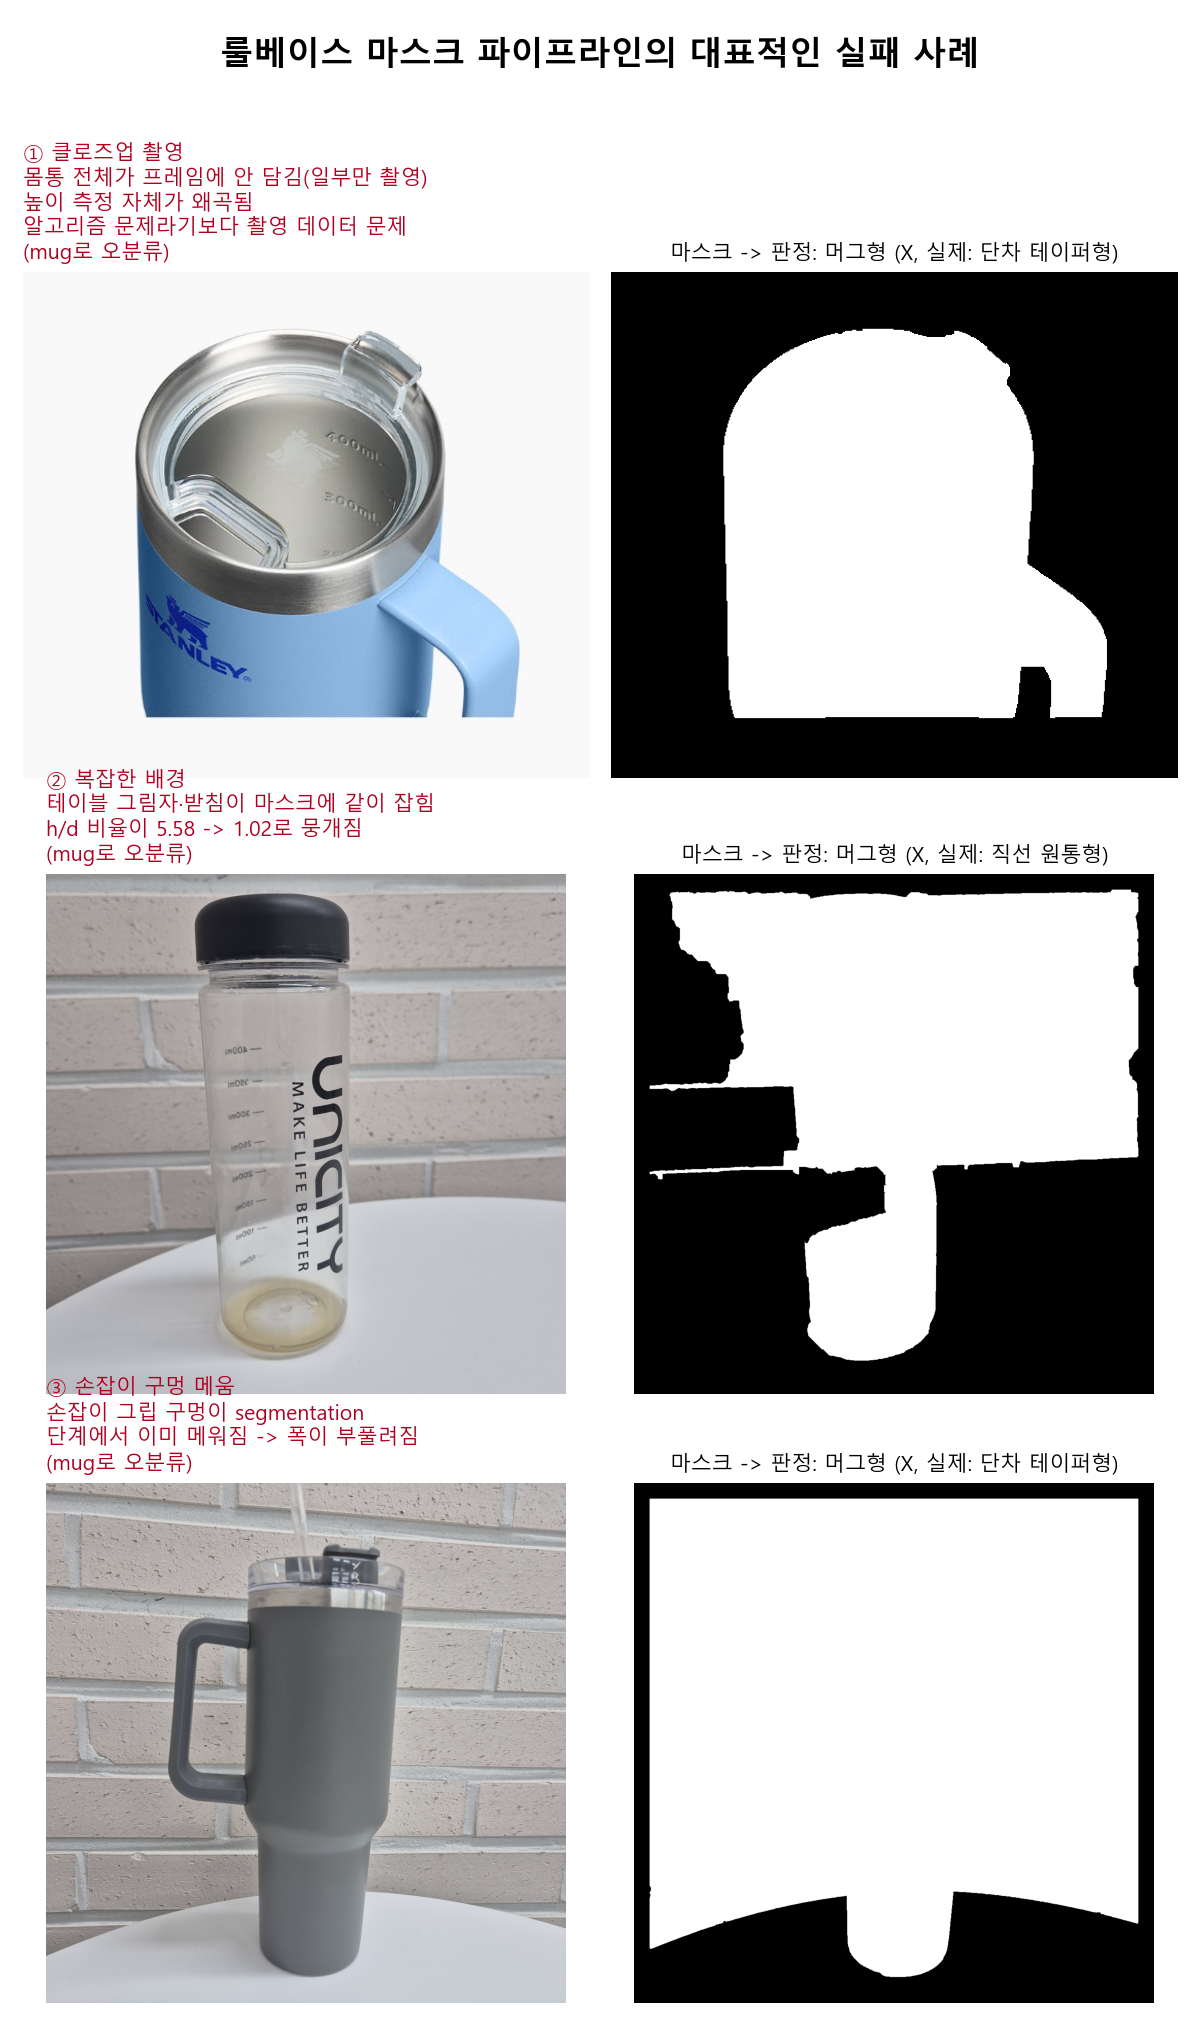
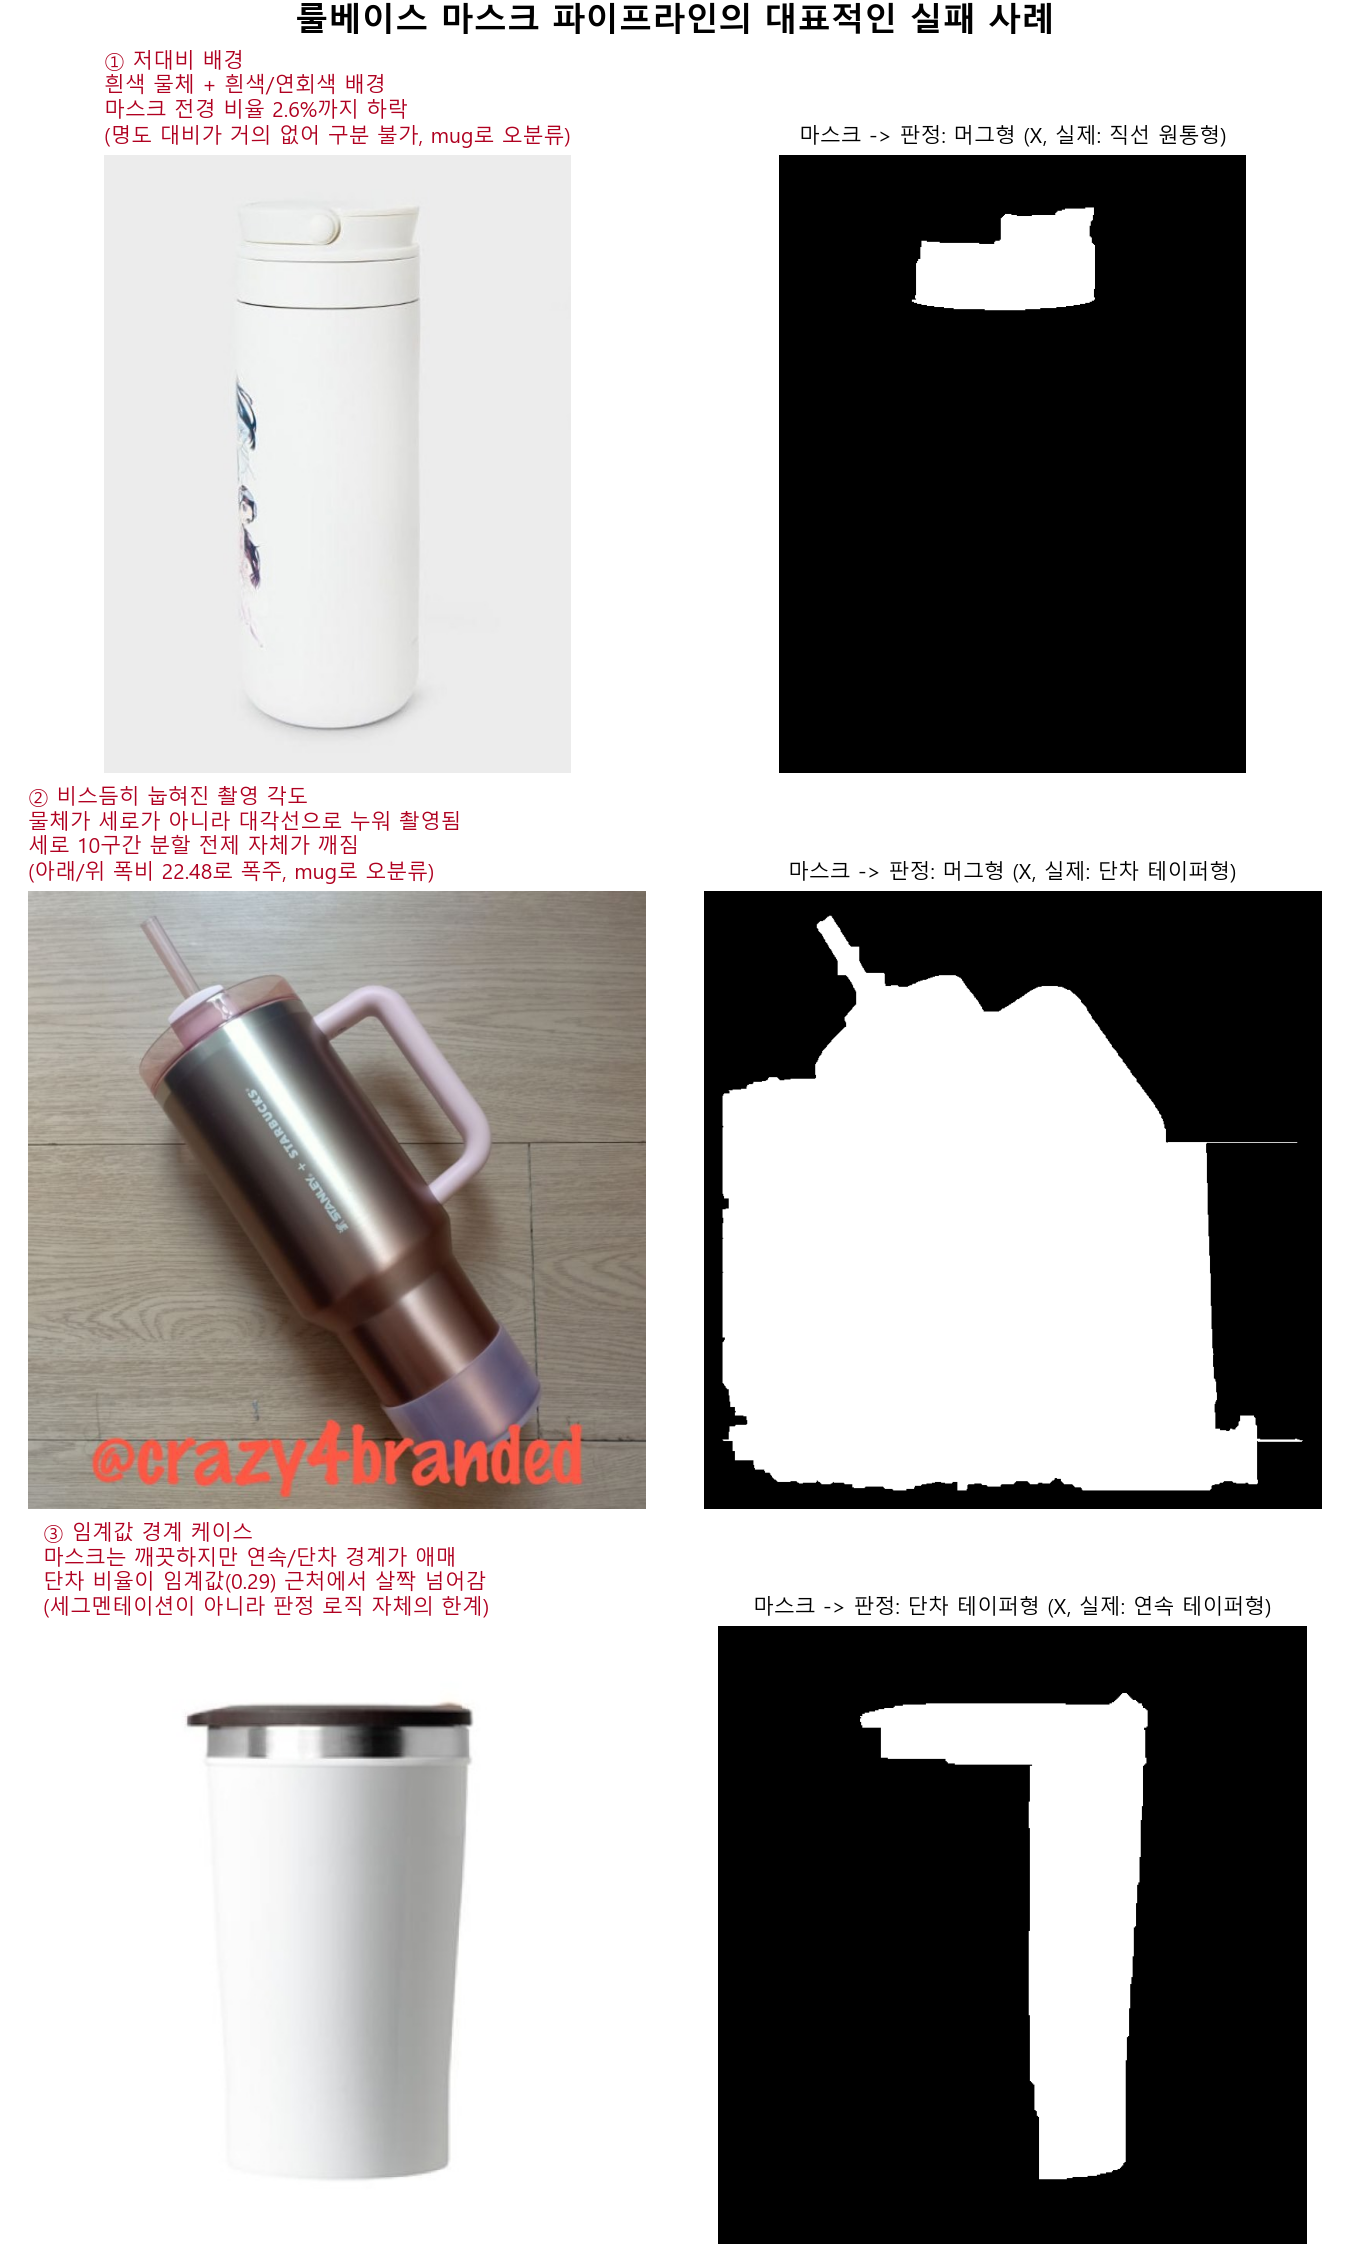
fix: 실패 사례 그림을 data/preprocess 예시로 교체 + 레이아웃 겹침 수정
기존 data/raw2, data/test1 혼용 예시를 전부 data/preprocess 소스로 교체:
1) 저대비 배경 — straight/148.jpg, 마스크 전경 비율 2.6%까지 하락
2) 비스듬히 눕혀진 촬영 각도 — taper_step/116.jpg, 물체가 대각선으로 누워
   촬영되어 세로 10구간 분할 전제 자체가 깨짐(아래/위 폭비 22.48로 폭주) —
   지난 세션에서 논의했던 "회전된 사진" 문제의 실제 사례
3) 임계값 경계 케이스 — taper_smooth/161.jpg, 마스크는 깨끗하지만 판정
   로직(단차 비율 임계값) 자체의 한계로 오분류

label_quality_report.md를 파싱해 "강한 신호가 아니면서 룰베이스가 폴더
라벨과 다르게 판정한"(=preprocess에 남아있는 진짜 오분류) 후보 180장 중에서
선별. subplots_adjust 대신 constrained_layout 사용해 제목 텍스트가 다른
행과 겹치던 레이아웃 버그도 수정.

Claude-Session: https://claude.ai/code/session_017RchT2YestydpNo3gmGA3i

diff --git a/src/rule_based/make_failure_cases_figure.py b/src/rule_based/make_failure_cases_figure.py
@@ -29,22 +29,22 @@ from shape_classifier import classify_shape, get_mask, SHAPE_LABELS_KO  # noqa: 
 
 CASES = [
     {
-        "path": "data/raw2/taper_step/70.jpg",
-        "true_cls": "taper_step",
-        "title": "① 클로즈업 촬영",
-        "desc": "몸통 전체가 프레임에 안 담김(일부만 촬영)\n높이 측정 자체가 왜곡됨\n알고리즘 문제라기보다 촬영 데이터 문제\n(mug로 오분류)",
-    },
-    {
-        "path": "data/test1/straight/KakaoTalk_20260915_154417925_13.jpg",
+        "path": "data/preprocess/straight/148.jpg",
         "true_cls": "straight",
-        "title": "② 복잡한 배경",
-        "desc": "테이블 그림자·받침이 마스크에 같이 잡힘\nh/d 비율이 5.58 -> 1.02로 뭉개짐\n(mug로 오분류)",
+        "title": "① 저대비 배경",
+        "desc": "흰색 물체 + 흰색/연회색 배경\n마스크 전경 비율 2.6%까지 하락\n(명도 대비가 거의 없어 구분 불가, mug로 오분류)",
     },
     {
-        "path": "data/test1/taper_step/KakaoTalk_20260915_154417925_09.jpg",
+        "path": "data/preprocess/taper_step/116.jpg",
         "true_cls": "taper_step",
-        "title": "③ 손잡이 구멍 메움",
-        "desc": "손잡이 그립 구멍이 segmentation\n단계에서 이미 메워짐 -> 폭이 부풀려짐\n(mug로 오분류)",
+        "title": "② 비스듬히 눕혀진 촬영 각도",
+        "desc": "물체가 세로가 아니라 대각선으로 누워 촬영됨\n세로 10구간 분할 전제 자체가 깨짐\n(아래/위 폭비 22.48로 폭주, mug로 오분류)",
+    },
+    {
+        "path": "data/preprocess/taper_smooth/161.jpg",
+        "true_cls": "taper_smooth",
+        "title": "③ 임계값 경계 케이스",
+        "desc": "마스크는 깨끗하지만 연속/단차 경계가 애매\n단차 비율이 임계값(0.29) 근처에서 살짝 넘어감\n(세그멘테이션이 아니라 판정 로직 자체의 한계)",
     },
 ]
 
@@ -59,7 +59,7 @@ def main() -> None:
     parser.add_argument("--out", default="reports/figures/rule_based/failure_cases.png")
     args = parser.parse_args()
 
-    fig, axes = plt.subplots(len(CASES), 2, figsize=(8, 4.5 * len(CASES)))
+    fig, axes = plt.subplots(len(CASES), 2, figsize=(9, 5.0 * len(CASES)), constrained_layout=True)
     fig.suptitle("룰베이스 마스크 파이프라인의 대표적인 실패 사례", fontsize=16, fontweight="bold")
 
     for row, case in enumerate(CASES):
@@ -82,7 +82,6 @@ def main() -> None:
         mark = "O" if pred == case["true_cls"] else "X"
         ax_mask.set_title(f"마스크 -> 판정: {pred_ko} ({mark}, 실제: {true_ko})", fontsize=10)
 
-    plt.tight_layout(rect=[0, 0, 1, 0.95])
     os.makedirs(os.path.dirname(args.out), exist_ok=True)
     fig.savefig(args.out, dpi=150)
     plt.close(fig)
